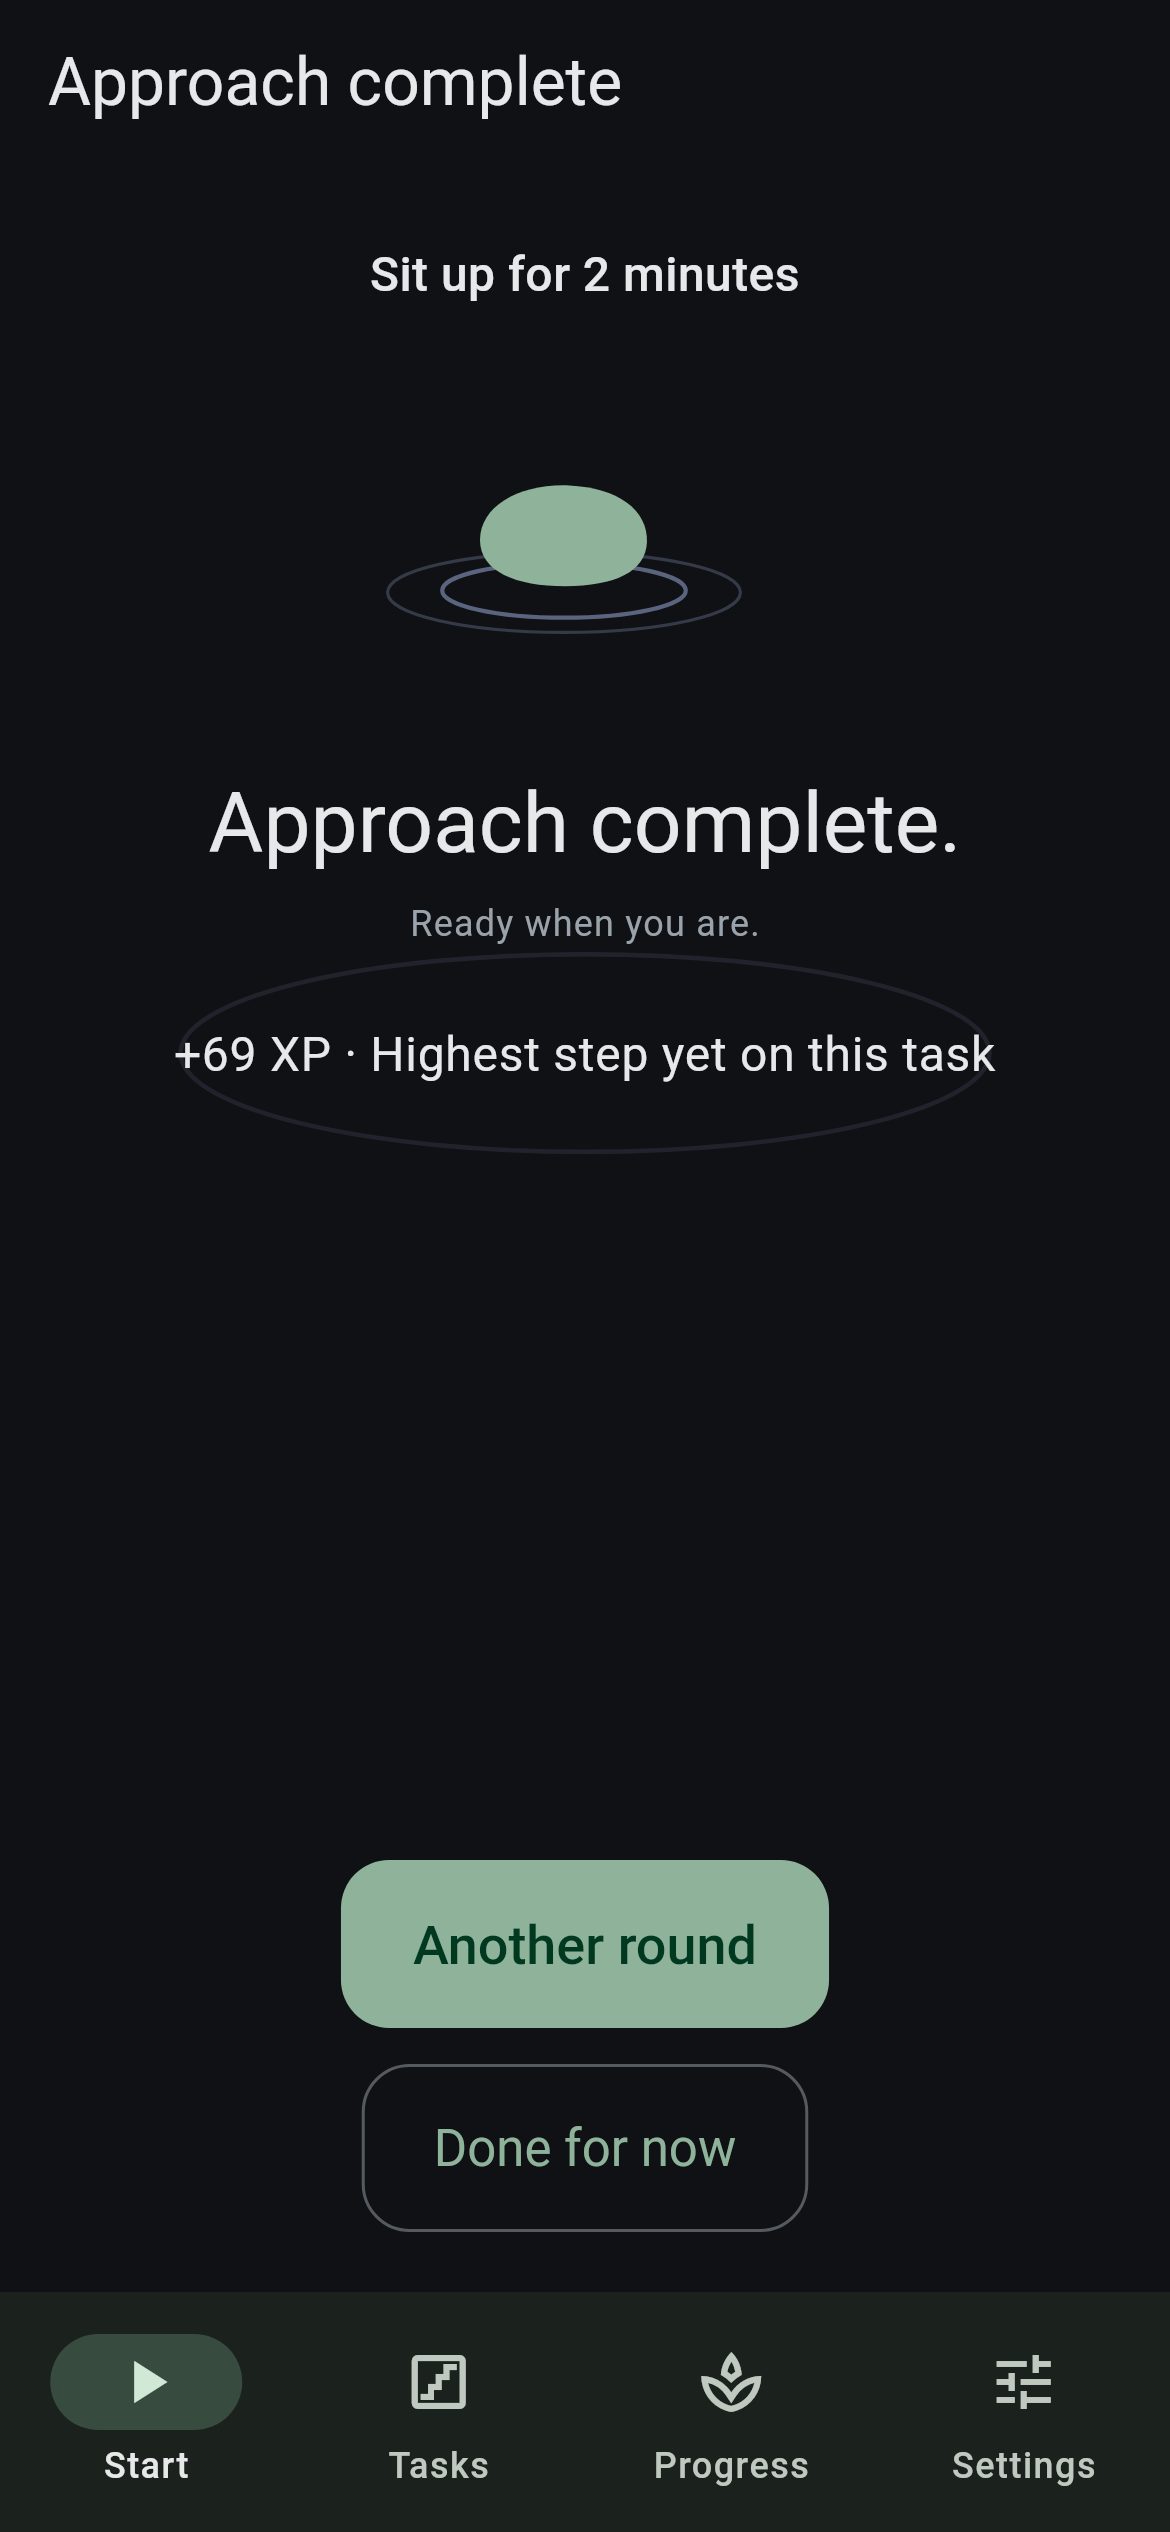
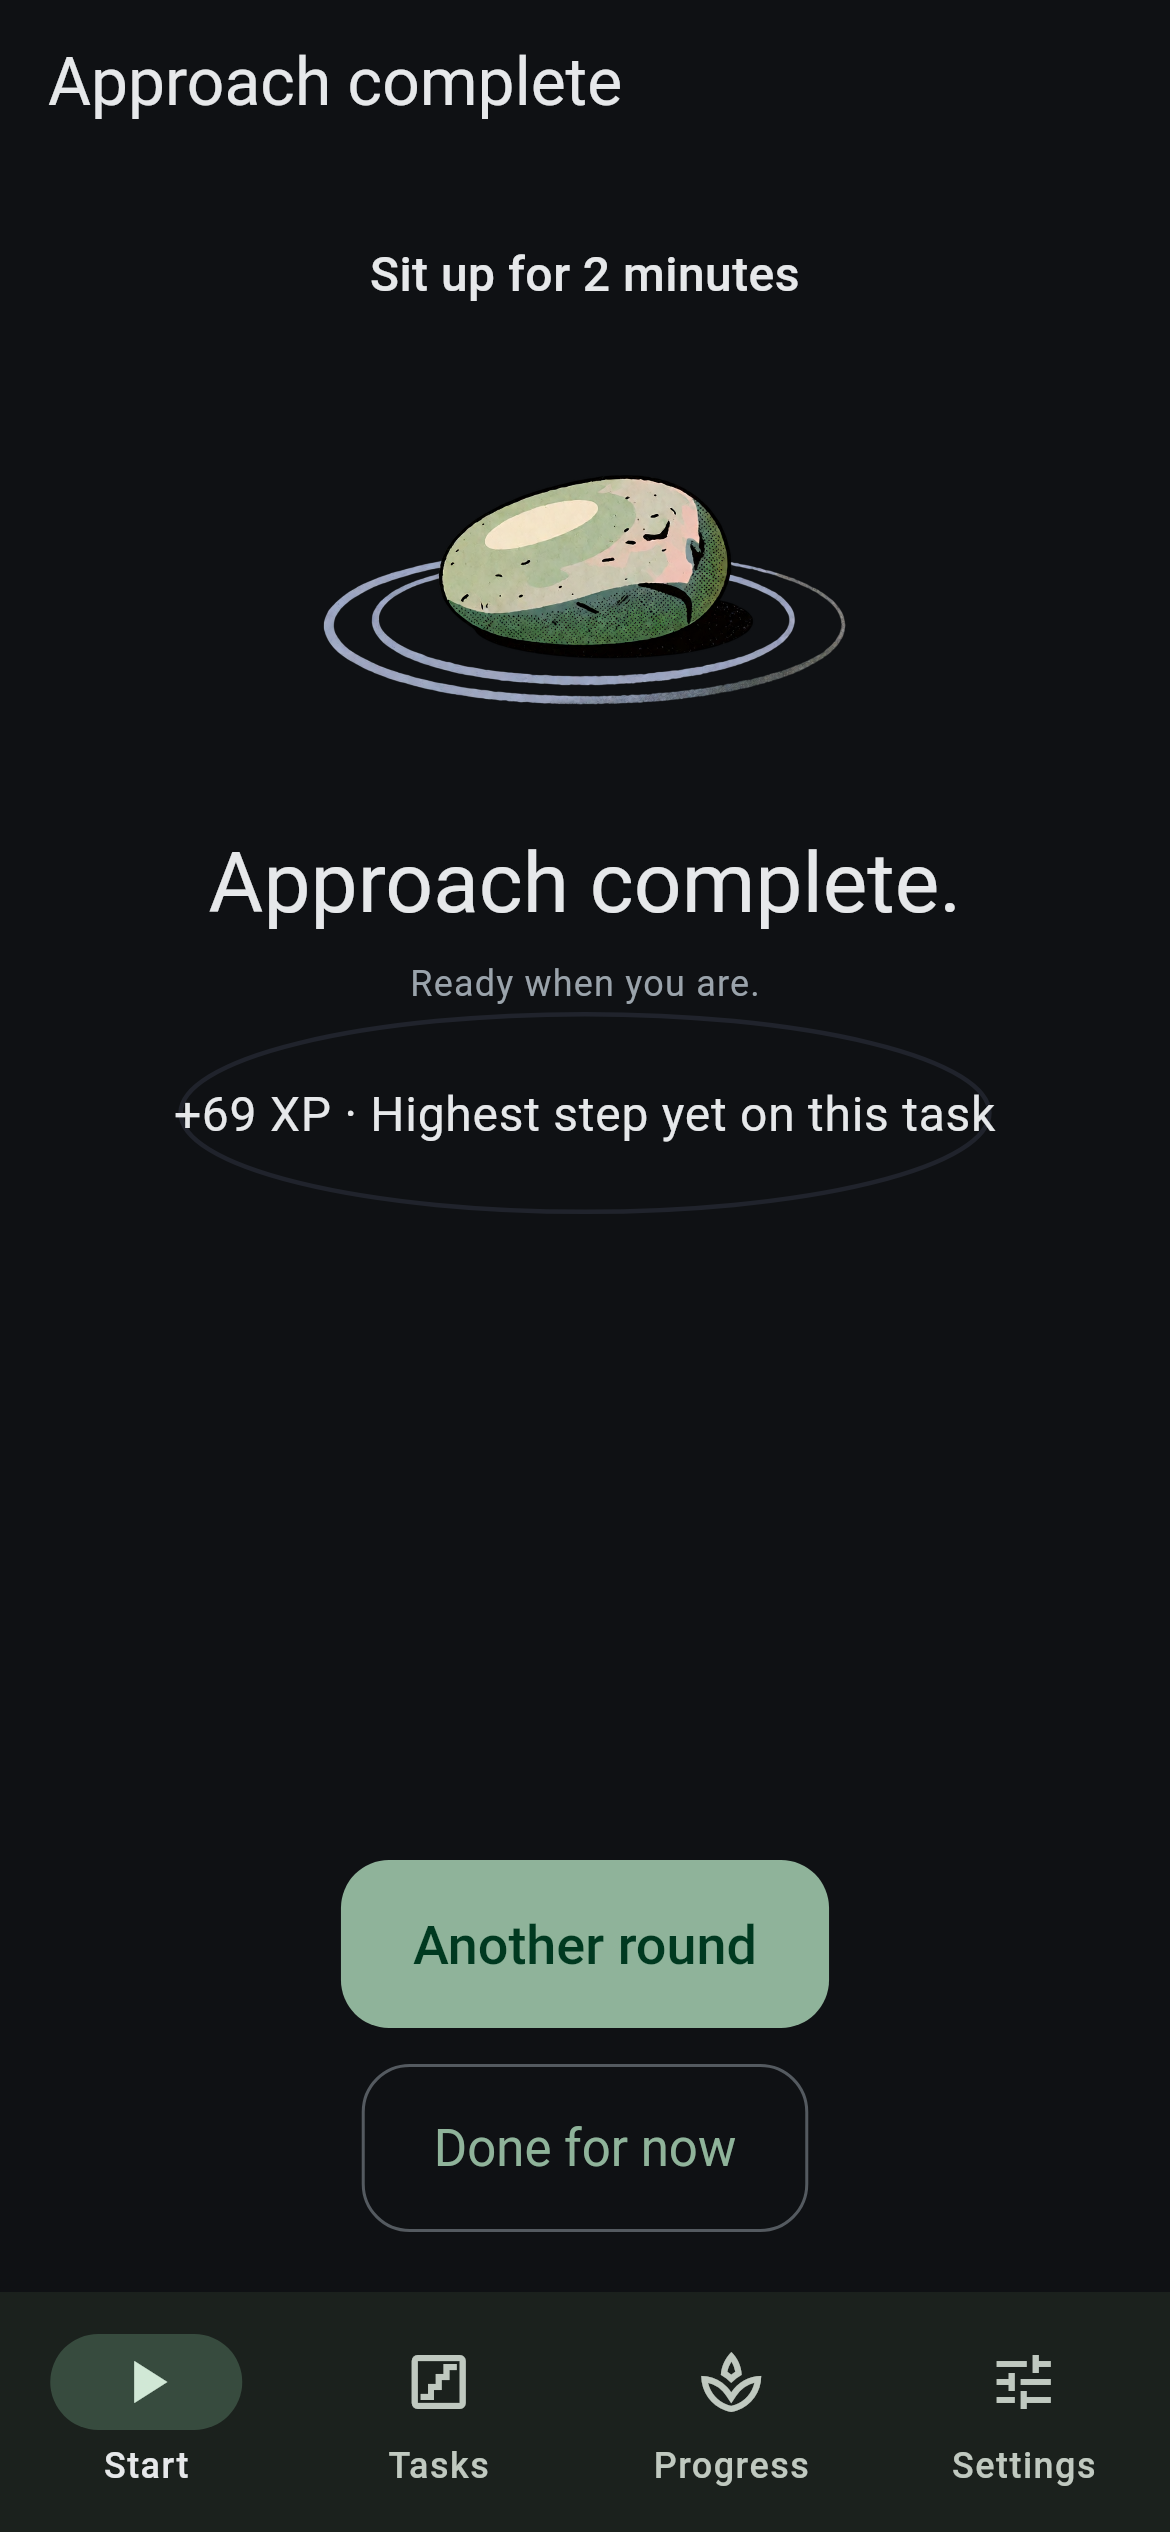
Paint every illustration slot with the two pebbles, alternating
stone_still, ripple_done and water_quiet show the pebble at rest;
stone_dawn, stones_empty and stone_split the standing one. The vector set
is retired (kept in history); docs/VISUALS.md describes the painted set and
keeps the vector contract as the fallback.

Claude-Session: https://claude.ai/code/session_01PaoFeeh7YunX14WNd6GfeR

diff --git a/lib/ui/widgets/illustration.dart b/lib/ui/widgets/illustration.dart
@@ -6,16 +6,17 @@ import '../../core/theme.dart';
 /// Every illustration in the app, by the file that draws it.
 ///
 /// The files live in `assets/illustrations/` and follow the contract in
-/// `docs/VISUALS.md`: one stone-and-water motif, authored for the dark theme in
-/// six palette colours that [PaletteMapper] swaps for the light theme at
-/// runtime. Replace an SVG with the same name and nothing else changes.
+/// `docs/VISUALS.md`: one stone-and-water motif. Today every slot is a
+/// painting (a PNG prepared from `assets/images/` by
+/// `tool/brand/prepare_illustration.py`); a vector slot would be an SVG in
+/// the palette that [PaletteMapper] swaps for the light theme. Replace a
+/// file with the same name and nothing else changes.
 enum Illustration {
-  /// One stone in still water. The Start tab, above the one-tap button.
-  stoneStill('stone_still', 'A stone resting in still water'),
+  /// A pebble at rest in still water. The Start tab, above the one-tap button.
+  stoneStill('stone_still', 'A pebble resting in still water', raster: true),
 
-  /// The stone with soft light on the horizon. After a quiet stretch, and
-  /// when a rest completes.
-  stoneDawn('stone_dawn', 'A stone in still water with soft light on the horizon'),
+  /// The upright pebble. After a quiet stretch, and when a rest completes.
+  stoneDawn('stone_dawn', 'A pebble standing in still water', raster: true),
 
   /// Three painted pebbles stepping away across water. The running approach.
   pathAhead('path_ahead', 'Three pebbles stepping away across still water', raster: true),
@@ -23,17 +24,17 @@ enum Illustration {
   /// A painted moon over water, no stone. The running rest.
   restMoon('rest_moon', 'A moon over still water', raster: true),
 
-  /// The stone with rings spreading from it. An approach just completed.
-  rippleDone('ripple_done', 'A stone with rings spreading from it'),
+  /// The pebble settled in its rings. An approach just completed.
+  rippleDone('ripple_done', 'A pebble settled in still water', raster: true),
 
-  /// Three small stones in a loose line. The Tasks tab with no tasks.
-  stonesEmpty('stones_empty', 'Three small stones in a line across water'),
+  /// The upright pebble. The Tasks tab with no tasks.
+  stonesEmpty('stones_empty', 'A pebble standing in still water', raster: true),
 
-  /// Water only. Empty history and progress.
-  waterQuiet('water_quiet', 'Still water with one faint ring'),
+  /// The pebble at rest. Empty history and progress.
+  waterQuiet('water_quiet', 'A pebble resting in still water', raster: true),
 
-  /// A stone above three pebbles. The "break this down smaller" sheet.
-  stoneSplit('stone_split', 'A stone above three smaller pebbles'),
+  /// The upright pebble. The "break this down smaller" sheet.
+  stoneSplit('stone_split', 'A pebble standing in still water', raster: true),
 
   /// The app icon: the painted pebble on its own background. Fixed colours
   /// in both themes.

diff --git a/test/ui/illustrations_test.dart b/test/ui/illustrations_test.dart
@@ -111,22 +111,17 @@ void main() {
             body: Column(
               children: [
                 AppIllustration(Illustration.stoneStill, height: 40),
-                AppIllustration(Illustration.stoneDawn, height: 40, decorative: false),
                 AppIllustration(Illustration.restMoon, height: 40, decorative: false),
               ],
             ),
           ),
         ),
       );
-      final pictures = tester.widgetList<SvgPicture>(find.byType(SvgPicture)).toList();
-      expect((pictures[0].bytesLoader as SvgAssetLoader).colorMapper, isNotNull, reason: 'themed');
-      expect(pictures[0].excludeFromSemantics, isTrue);
-      expect(pictures[1].excludeFromSemantics, isFalse);
-      expect(pictures[1].semanticsLabel, Illustration.stoneDawn.description);
-      // A painted illustration is an Image with the same semantics contract.
-      final painting = tester.widget<Image>(find.byType(Image));
-      expect(painting.excludeFromSemantics, isFalse);
-      expect(painting.semanticLabel, Illustration.restMoon.description);
+      final images = tester.widgetList<Image>(find.byType(Image)).toList();
+      expect(images[0].excludeFromSemantics, isTrue);
+      expect(images[0].semanticLabel, isNull);
+      expect(images[1].excludeFromSemantics, isFalse);
+      expect(images[1].semanticLabel, Illustration.restMoon.description);
     });
 
     testWidgets('the mark is the painted icon, untouched by the theme', (tester) async {

diff --git a/docs/VISUALS.md b/docs/VISUALS.md
@@ -36,42 +36,42 @@ the nearest thing is fully opaque, the farthest is around 0.25.
 
 ## In-app illustrations
 
-All live in `assets/illustrations/`. A painted one is a PNG prepared by
-`tool/brand/prepare_illustration.py` (trimmed, padded to 3:2, 1440 × 960, its own colours on
-both themes). The vector ones are SVGs with `viewBox="0 0 240 160"` and no fixed
-`width`/`height` attributes. The water line sits at **y = 104** unless the brief says otherwise; everything
-rests on or above it. Keep 12 px of air on every side. One subject, centred or slightly
-left of centre. At most three palette colours per file.
+All live in `assets/illustrations/` as PNGs prepared by `tool/brand/prepare_illustration.py`
+from the paintings in `assets/images/`: trimmed, padded to a 3:2 frame with a little air,
+1440 × 960, their own colours on both themes (the paintings' outline reads on charcoal and
+off-white alike). Two pebbles alternate across the slots, the one at rest and the one
+standing, so the set stays quiet.
 
-Stones are rounded pebbles with a slightly flatter underside, drawn as a single cubic path.
-Ripples are elliptical arcs or ellipses with `stroke-width` 1.5 to 2.5 and `fill="none"`.
-A horizon is a single 1.5 px line at the water line, at 0.3 to 0.5 opacity, often shorter
-than the full width.
+| File               | Source                     | Where it appears                                        |
+|--------------------|----------------------------|---------------------------------------------------------|
+| `stone_still.png`  | `pebble-2.png` (at rest)   | Start tab, above the one-tap button                     |
+| `stone_dawn.png`   | `pebble.png` (standing)    | Start tab after three or more quiet days; rest complete |
+| `path_ahead.png`   | `pebbles.png`              | Running approach                                        |
+| `rest_moon.png`    | `moon.png`                 | Running rest                                            |
+| `ripple_done.png`  | `pebble-2.png` (at rest)   | Approach complete                                       |
+| `stones_empty.png` | `pebble.png` (standing)    | Tasks tab with no tasks                                 |
+| `water_quiet.png`  | `pebble-2.png` (at rest)   | Empty history and progress                              |
+| `stone_split.png`  | `pebble.png` (standing)    | "Break this down smaller" sheet                         |
 
-| File               | Where it appears                                   | What it says                                                        |
-|--------------------|----------------------------------------------------|---------------------------------------------------------------------|
-| `stone_still.svg`  | Start tab, above the one-tap button                | One stone, still water, one faint ring. Nothing is required of you. |
-| `stone_dawn.svg`   | Start tab after three or more quiet days; rest complete | The same stone with soft light low on the horizon. Good to see you. |
-| `path_ahead.png`   | Running approach                                   | Three painted pebbles stepping away (from `assets/images/pebbles.png`). Being near the thing. |
-| `rest_moon.png`    | Running rest                                       | A painted moon over still water (from `assets/images/moon.png`). Rest is the method too. |
-| `ripple_done.svg`  | Approach complete                                  | The stone with two rings spreading from it. That counted.          |
-| `stones_empty.svg` | Tasks tab with no tasks                            | Three small stones in a loose line going away. Pick one up.        |
-| `water_quiet.svg`  | Empty history and progress                         | Water only, one ring. Nothing logged yet, and that is fine.        |
-| `stone_split.svg`  | "Break this down smaller" sheet                    | One stone above, three pebbles below it. Smaller is still a step.  |
+```sh
+python3 tool/brand/prepare_illustration.py assets/images/pebble-2.png stone_still
+```
 
-Hard rules, in order of importance:
+To change a slot, prepare a different painting under the same name. Hard rules for any new
+painting: calm over clever (no faces, characters, confetti, arrows, checkmarks, trophies,
+exclamation marks, speed lines), a transparent background, and nothing that implies hurry
+or judgement.
 
-1. **Calm over clever.** No faces, characters, confetti, stars bursting, arrows, checkmarks,
-   trophies, exclamation marks, speed lines, or anything that implies hurry or judgement.
-2. **Dark first.** Author on `#0F1114`; check on `#F4F3EF` too (the mapper handles colours,
-   but the composition must still read when the light theme inverts the contrast).
-3. **flutter_svg subset only.** `path`, `circle`, `ellipse`, `rect`, `line`, `polyline`,
-   `polygon`, `g`, `defs`, `linearGradient`, `radialGradient`, `clipPath`. Attributes:
-   `fill`, `stroke`, `stroke-width`, `stroke-linecap`, `stroke-linejoin`,
-   `stroke-dasharray`, `opacity`, `fill-opacity`, `stroke-opacity`, `transform`.
-   **No** `filter`, `style` blocks, CSS classes, `text`, `image`, `mask`, `use`, or
-   `foreignObject`. Colours as 6-digit hex only.
-4. **Small files.** Under 4 KB each. A handful of shapes, not a trace of a painting.
+### Vector illustrations (the fallback contract)
+
+A slot can also be an SVG, `viewBox="0 0 240 160"`, no fixed `width`/`height`, authored for
+the dark theme in the palette above; `PaletteMapper` swaps the colours for the light theme.
+Stones are rounded pebbles with a slightly flatter underside, rings are thin elliptical
+strokes, a horizon is a single faint line at y = 104. Only the flutter_svg subset: `path`,
+`circle`, `ellipse`, `rect`, `line`, `polyline`, `polygon`, `g`, `defs`, gradients and
+`clipPath`; no `filter`, `style`, `text`, `image`, `mask` or `use`; six-digit hex colours
+only; under 4 KB. The original vector set lives in git history (before the paintings) and
+`assets/brand/mark*.svg` keeps the vector mark they were drawn to match.
 
 ## Brand mark
 
